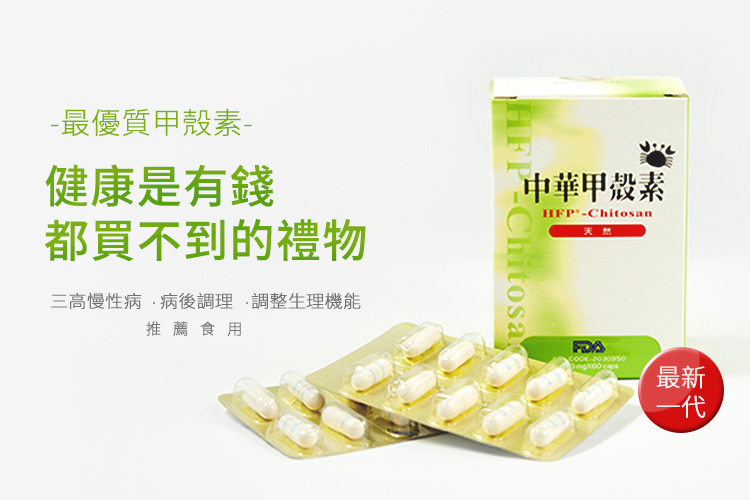
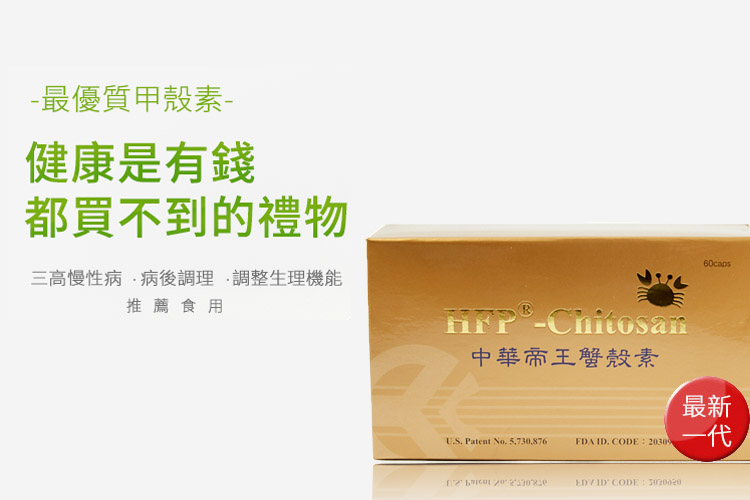
change to 蟹殼素
蟹殼素 change

diff --git a/products.html b/products.html
@@ -293,7 +293,7 @@
 
 												<div class="inner">
 													<header>
-														<h2>中華甲殼素</h2>
+														<h2>中華帝王蟹殼素(甲殼素)</h2>
 
 														<p>
 															於日韓盛行許久,其對人體的好處多不勝數 調整體質 健康維持的好幫手 300MG*60粒/盒
